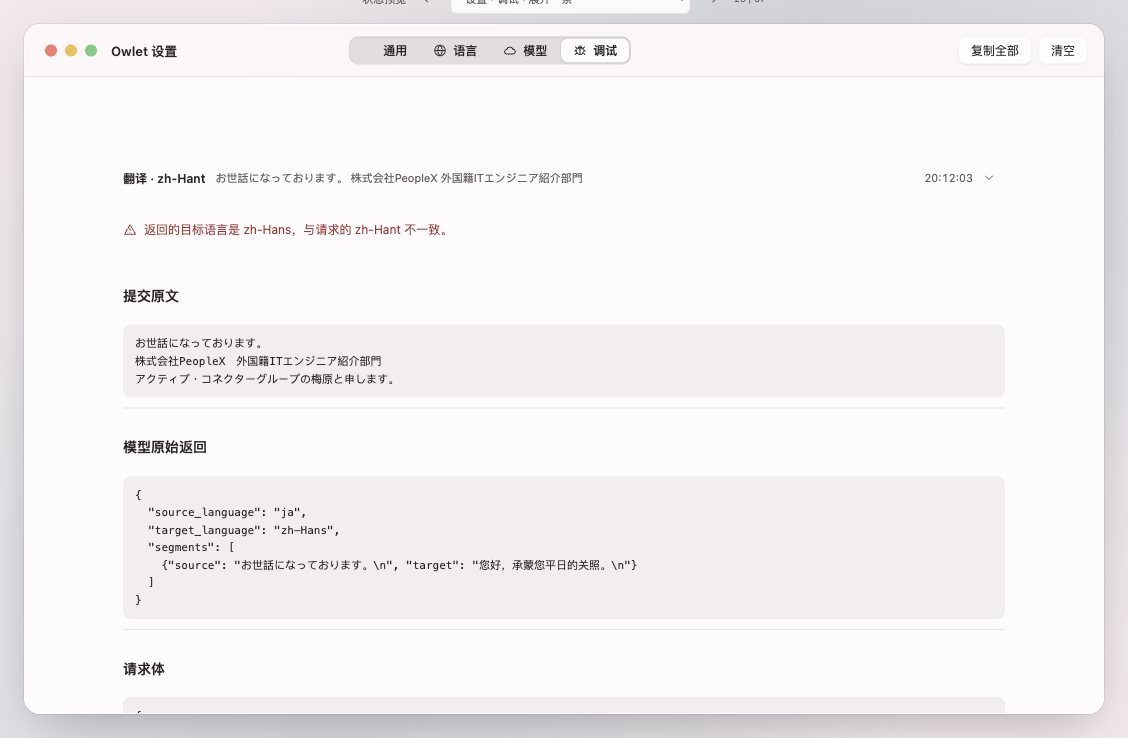
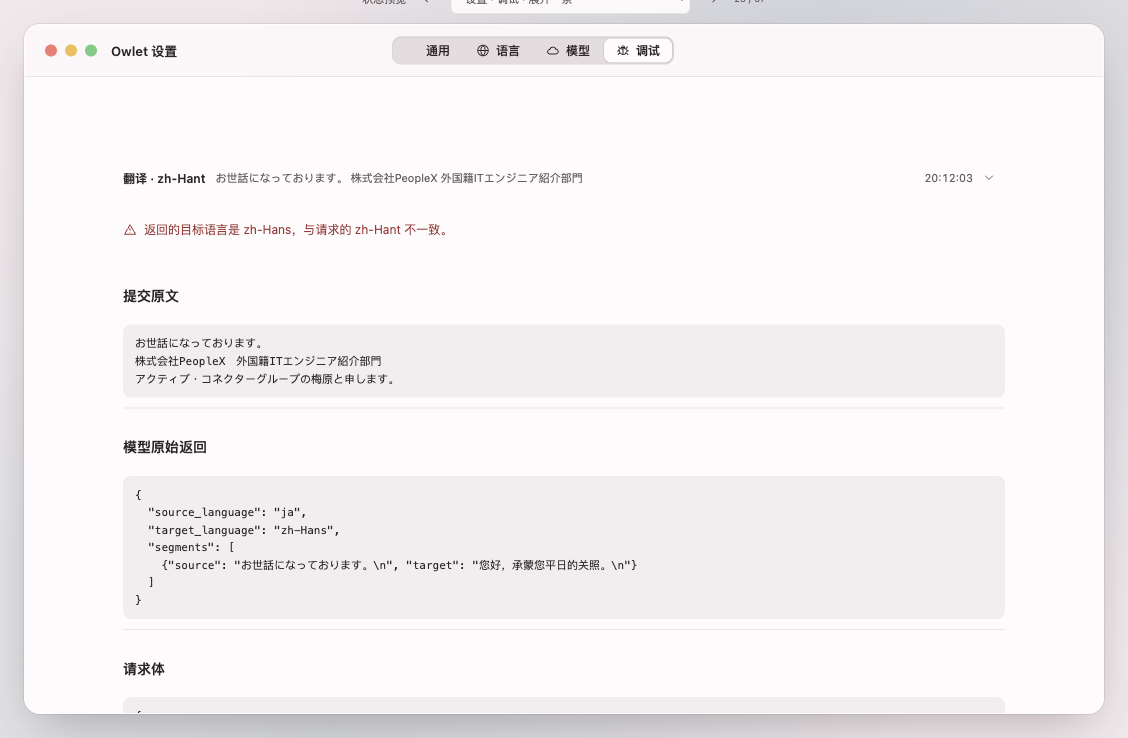
feat(debug): drop 复制全部 and 清空, and square up the prompt accessories
调试页只留捕获到的内容：`复制全部` 与 `清空` 一并删除，`DebugLog.reports` / `clear()` 因此没有
消费者，跟测试一起移除。要看哪一条就展开哪一条，那里还有「复制这条记录」；记录本来只存在内存、
上限 20 条、退出即清。

顺带：System Prompt 的两个标题栏配件统一成小方块图标按钮（恢复默认 `arrow.uturn.backward`
与 info `info.circle`）。AppKit 的 `.smallSquare` bezel 已弃用，SwiftUI 也没有暴露它，所以用
`.buttonStyle(.bordered)` + `.controlSize(.small)` 这个现代对应物。设计图里也把配件挪到分组
标题同一行，和应用的 Section header 一致。

Changed region(s): [[0.3103, 0.0312, 0.5895, 0.0935], [0.9309, 0.0623, 0.9619, 0.0935], [0.8688, 0.0623, 0.8998, 0.0935]]

diff --git a/design/index.html b/design/index.html
@@ -287,13 +287,16 @@ body.board-open #sourceDrawer,body.board-open #toast{display:none!important}
 .detail .form-section{margin-top:16px}
 .detail .formrow .field textarea{min-height:62px}
 /* Prompt editing proposal. */
+.prompt-head{display:flex;align-items:center;justify-content:space-between;gap:10px;margin:13px 0 2px}
+.prompt-head .group-title{margin:0}
 .prompt-editor{padding:12px 0;border-bottom:1px solid var(--line)}
 .prompt-editor:last-of-type{border-bottom:0}
 .prompt-editor .labelrow{margin-bottom:8px}
 .prompt-editor .state{font-size:10px;color:var(--muted)}
 .prompt-editor .prompt-accessory{display:inline-flex;align-items:center;gap:8px;color:var(--muted)}
 .prompt-editor .prompt-accessory svg{width:14px;height:14px}
-.prompt-editor .prompt-accessory .glass-btn{height:22px;padding:0 9px;font-size:11px}
+.prompt-editor .prompt-accessory .icon-square{display:grid;place-items:center;width:22px;height:22px;padding:0;border:1px solid var(--line);border-radius:6px;background:var(--paper);color:var(--ink);flex:none}
+.prompt-editor .prompt-accessory .icon-square svg{width:12px;height:12px}
 .prompt-text{font-size:12px;line-height:1.75;min-height:128px}
 .prompt-tools{display:flex;align-items:flex-start;justify-content:space-between;gap:15px;margin-top:8px}
 .prompt-tools details{flex:1;font-size:11px;color:var(--muted)}
@@ -697,7 +700,7 @@ function settingsTabsHTML(){
   return `<div class="traffic" aria-hidden="true"><i></i><i></i><i></i></div><h1 class="apptitle">Owlet 设置</h1>`
    +`<div class="settings-tabs" role="tablist">`
    +shown.map(([id,label,glyph])=>`<button role="tab" aria-selected="${active===id}">${icon(glyph)}<span>${label}</span></button>`).join('')
-   +`</div><div class="appbar-tools">${active==='debug'?'<button class="glass-btn">复制全部</button><button class="glass-btn">清空</button>':''}</div>`;
+   +`</div><div class="appbar-tools"></div>`;
 }
 function learningHTML(){
   return `<div class="form-section"><p class="group-title">学习</p>`
@@ -729,8 +732,8 @@ function promptSectionsHTML(){
   const pop=!!cfg().popover;
   // 「查看默认 Prompt」是只读参考：用 popover 展示，比常驻的折叠行更宽，也不会把编辑器挤动。
   const popover=text=>`<div class="popover" role="dialog" aria-label="默认 Prompt" style="top:398px;left:17px"><pre>${esc(text)}</pre></div>`;
-  return ['translate','polish'].map((k,i)=>`<div class="form-section" style="position:relative"><p class="group-title">${k==='translate'?'翻译':'润色'} System Prompt</p>`
-   +`<div class="prompt-editor"><div class="labelrow"><span></span><span class="prompt-accessory">${cfg().customized?'<button class="glass-btn">恢复默认</button>':'<span class="state">默认</span>'}${icon('infoCircle')}</span></div><textarea class="prompt-text" rows="7" aria-label="${k==='translate'?'翻译':'润色'} System Prompt">${esc(DEFAULT_PROMPTS[k])}</textarea><div class="prompt-tools"><button class="glass-btn">查看默认 Prompt</button><button class="glass-btn">恢复默认</button></div></div>`
+  return ['translate','polish'].map((k,i)=>`<div class="form-section" style="position:relative"><div class="prompt-head"><p class="group-title">${k==='translate'?'翻译':'润色'} System Prompt</p><span class="prompt-accessory">${cfg().customized?'<button class="icon-square" aria-label="恢复默认">'+icon('refresh')+'</button>':'<span class="state">默认</span>'}<button class="icon-square" aria-label="查看默认 Prompt">${icon('infoCircle')}</button></span></div>`
+   +`<div class="prompt-editor"><textarea class="prompt-text" rows="7" aria-label="${k==='translate'?'翻译':'润色'} System Prompt">${esc(DEFAULT_PROMPTS[k])}</textarea><div class="prompt-tools"><button class="glass-btn">查看默认 Prompt</button><button class="glass-btn">恢复默认</button></div></div>`
    +((pop&&i===0)?popover(DEFAULT_PROMPTS[k]):'')
    +`</div>`).join('')
 ;

diff --git a/Owlet/Settings/PromptSettingsView.swift b/Owlet/Settings/PromptSettingsView.swift
@@ -51,16 +51,23 @@ struct PromptSettingsView: View {
                     .foregroundStyle(.red)
             }
         } header: {
-            HStack(spacing: 10) {
+            HStack(spacing: 8) {
                 Text("\(operation.title) System Prompt")
                 Spacer(minLength: 0)
                 // The restore is only worth offering once there is something to restore, and it takes
-                // the place the 默认 mark had, so the header never grows a second row.
+                // the place the 默认 mark had, so the header never grows a second row. Both accessories
+                // are small square icon buttons: `.smallSquare` is the AppKit bezel this shape comes
+                // from, and it is deprecated, so the bordered small control is used instead.
                 if customized.contains(operation) {
-                    Button("恢复默认") { text.wrappedValue = defaultPrompt }
-                        .buttonStyle(.borderless)
-                        .controlSize(.small)
-                        .help("把内置默认填回编辑框")
+                    Button {
+                        text.wrappedValue = defaultPrompt
+                    } label: {
+                        Label("恢复默认", systemImage: "arrow.uturn.backward")
+                    }
+                    .labelStyle(.iconOnly)
+                    .buttonStyle(.bordered)
+                    .controlSize(.small)
+                    .help("把内置默认填回编辑框")
                 } else {
                     Text("默认")
                         .foregroundStyle(.secondary)
@@ -81,7 +88,8 @@ struct PromptSettingsView: View {
             Label("查看默认 Prompt", systemImage: "info.circle")
         }
         .labelStyle(.iconOnly)
-        .buttonStyle(.borderless)
+        .buttonStyle(.bordered)
+        .controlSize(.small)
         .help("查看默认 Prompt")
         .popover(isPresented: showingDefaultBinding(for: operation)) {
             ScrollView {

diff --git a/OwletTests/Debug/DebugLogTests.swift b/OwletTests/Debug/DebugLogTests.swift
@@ -16,8 +16,6 @@ struct DebugLogTests {
         }
         #expect(log.exchanges.count == DebugLog.limit)
         #expect(log.exchanges.first?.title == "第 \(DebugLog.limit + 2) 次")
-        log.clear()
-        #expect(log.exchanges.isEmpty)
     }
 
     /// The API key travels in a header, so a copied report must not carry it.
@@ -40,15 +38,6 @@ struct DebugLogTests {
         let exchange = DebugExchange(
             title: "翻译 · zh-Hant", request: "{}", submitted: "お世話になっております。\n株式会社PeopleX")
         #expect(exchange.summary == "お世話になっております。 株式会社PeopleX")
-    }
-
-    @Test func theLogHandsOutEveryReportNewestFirst() {
-        let log = DebugLog()
-        log.add(DebugExchange(title: "第一次", request: "{}", submitted: "a"))
-        log.add(DebugExchange(title: "第二次", request: "{}", submitted: "b"))
-        let reports = log.reports
-        #expect(reports.contains("第一次") && reports.contains("第二次"))
-        #expect(reports.range(of: "第二次")!.lowerBound < reports.range(of: "第一次")!.lowerBound)
     }
 
     /// Only a source mismatch gets the comparison, so the hint never claims the wrong check failed.

diff --git a/Owlet/Settings/DebugSettingsPane.swift b/Owlet/Settings/DebugSettingsPane.swift
@@ -19,14 +19,6 @@ struct DebugSettingsPane: View {
             }
         }
         .listStyle(.inset)
-        .toolbar {
-            ToolbarItemGroup(placement: .primaryAction) {
-                Button("复制全部") { Clipboard.copy(log.reports) }
-                    .disabled(log.exchanges.isEmpty)
-                Button("清空", action: log.clear)
-                    .disabled(log.exchanges.isEmpty)
-            }
-        }
     }
 
     /// What was asked for, the text that was sent, and when. The text is cut to one line: the whole

diff --git a/Owlet/Debug/DebugLog.swift b/Owlet/Debug/DebugLog.swift
@@ -81,10 +81,6 @@ final class DebugLog {
         }
     }
 
-    func clear() { exchanges.removeAll() }
-
-    /// Every captured report, newest first, for one-click copy.
-    var reports: String { exchanges.map(\.report).joined(separator: "\n\n---\n\n") }
 }
 
 /// Where a `ModelClient` hands a finished exchange. Disabled by default, so ordinary use never keeps

diff --git a/docs/liquid-glass-components.md b/docs/liquid-glass-components.md
@@ -85,7 +85,7 @@
 | `settings-general.png` | 独立设置窗口：`Settings` scene 的标题栏 + `TabView` 标签页切换器（不可自定义、始终可见）· 每页 inset grouped `Form` 的多个 `Section` |
 | `settings-language-empty.png` / `settings-language-rows.png` | 语言页：「语言」分组（已选语言逐行 `LabeledContent` + 删除按钮，`添加语言` 才展示完整系统清单）+「目标语言」分组（兜底目标 `Picker(.menu)`、一行一源语言的映射、`添加映射`） |
 | `settings-model.png` / `settings-model-openai.png` / `settings-model-failed.png` | 模型页：「服务」分组（服务商、Base URL、`SecureField`）、「模型」分组（模型名称、思考强度），以及两组 System Prompt 编辑器；模型列表失败时在名称行下就地提示与 `重试` |
-| `settings-debug.png` / `settings-debug-open.png` / `settings-debug-empty.png` | 调试页：`List(.inset)`，每次交换一行（操作名、原文摘要 `.lineLimit(1)`、时间、行尾 `DisclosureGroup` 箭头）；展开后是失败行、原文差异与三段可选中原文；`复制全部` / `清空` 在窗口工具栏 |
+| `settings-debug.png` / `settings-debug-open.png` / `settings-debug-empty.png` | 调试页：`List(.inset)`，每次交换一行（操作名、原文摘要 `.lineLimit(1)`、时间、行尾 `DisclosureGroup` 箭头）；展开后是失败行、原文差异与三段可选中原文 |
 | `workspace-auto.png` / `workspace-target-pinned.png` | 工具栏的 `Picker(.menu)`：`自动（简体中文）` 与显式语言两态；结果标签沿用解析出的语言名。工具栏还多了显示方式（分区／对照）这个任务选项 |
 | `loading.png` / `polish-loading.png` / `direct-loading.png` | 紧凑玻璃条 · `ProgressView` · 状态文字 · 玻璃停止按钮；Esc 取消 |
 | `error.png` / `format-error.png` / `cancelled.png` / `permission.png` / `unconfigured.png` / `selection-error.png` / `unwritten.png` | 紧凑玻璃条 · 一行说明 · 一个恢复按钮（服务设置／提示词设置／权限设置／手动输入／配置服务／复制结果／重新处理），失败态另有重试图标按钮 |

diff --git a/tasks/todo.md b/tasks/todo.md
@@ -759,9 +759,8 @@
 **验收条件：**
 - [x] 页面上不再有解释性文案。
 - [x] 每条一行：`翻译／润色` + 摘要（`.lineLimit(1)`、`.truncationMode(.tail)`）+ 时间 + 行尾展开。
-- [x] 展开后显示失败原因、原文差异（若有）与提交原文／模型原始返回／请求体。
+- [x] 展开后显示失败原因、原文差异（若有）与提交原文／模型原始返回／请求体，可复制这一条。
 - [x] 不嵌套同方向的滚动视图（List 是唯一的纵向滚动容器）。
-- [x] `复制全部` / `清空` 在工具栏。
 
 **验证：**
 - [x] `mise run test`：`DebugLogTests` 补摘要与全部报告的用例。
